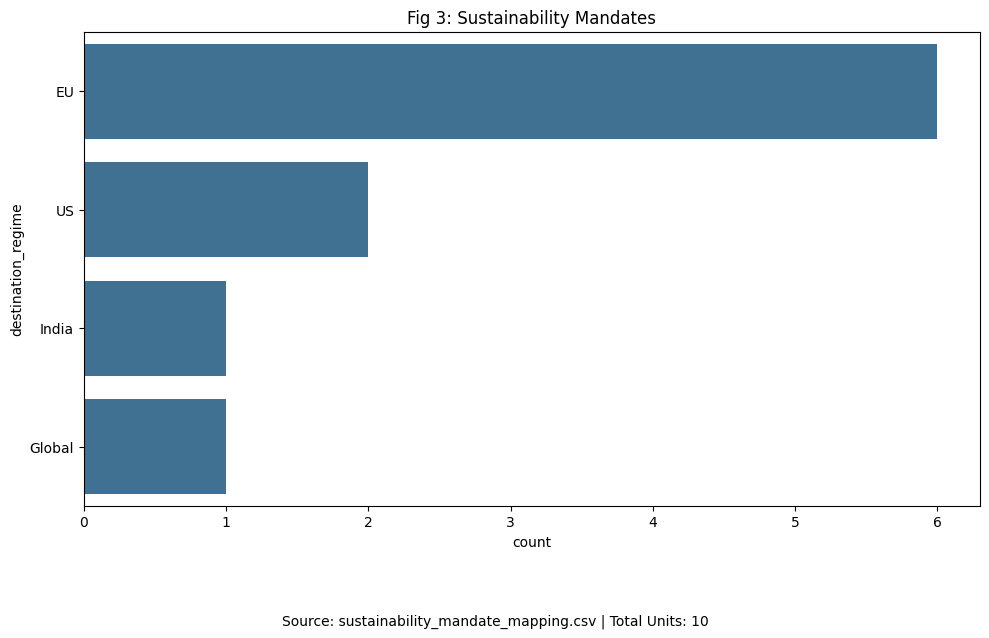
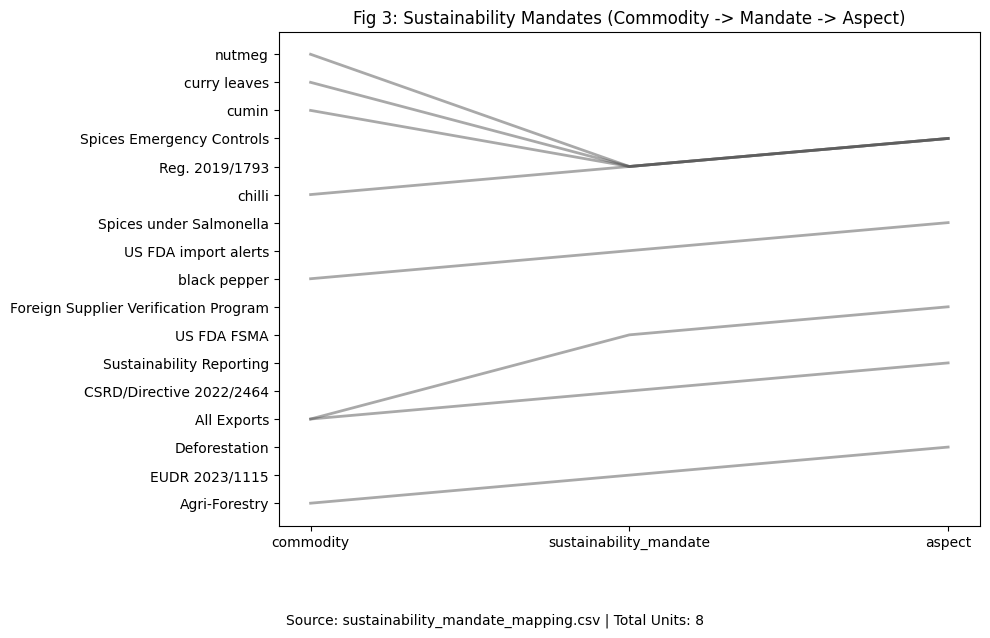
Fix figure rendering bugs and align sustainability mandate data

diff --git a/src/data-processing/generate_figures.py b/src/data-processing/generate_figures.py
@@ -47,11 +47,11 @@ def main():
     
     # Fig 2: Hurdle Co-occurrence
     try:
-        rq2 = pd.read_csv(results_dir / "rq2_hurdle_cooccurrence.csv")
+        rq2 = pd.read_csv(results_dir / "rq2_hurdle_cooccurrence.csv", comment="#")
         # Ensure it's not empty and has actual data
-        # Assuming rq2 has 'hurdle_1', 'hurdle_2', 'jaccard'
+        # Assuming rq2 has 'hurdle_a', 'hurdle_b', 'jaccard'
         if not rq2.empty and 'jaccard' in rq2.columns:
-            pivot = rq2.pivot(index='hurdle_1', columns='hurdle_2', values='jaccard')
+            pivot = rq2.pivot(index='hurdle_a', columns='hurdle_b', values='jaccard')
             fig, ax = plt.subplots(figsize=(10, 8))
             sns.heatmap(pivot, annot=True, cmap="Greys", cbar=True, fmt=".3f", ax=ax)
             ax.set_xlabel("Hurdle")
@@ -84,7 +84,7 @@ def main():
         # which acts as a parallel coordinates plot
         fig, ax = plt.subplots(figsize=(10, 6))
         
-        cols = ['Commodity', 'Mandate', 'Aspect']
+        cols = ['commodity', 'sustainability_mandate', 'aspect']
         # check if these columns exist, else fallback
         if all(c in mapping.columns for c in cols):
             mapping['count'] = 1 # or aggregate
@@ -93,7 +93,7 @@ def main():
             # Simple visualization
             # Just mapping the flows
             for idx, row in agg.iterrows():
-                ax.plot([0, 1, 2], [row['Commodity'], row['Mandate'], row['Aspect']], color=base_color, alpha=0.5, linewidth=row['unit_count']*2)
+                ax.plot([0, 1, 2], [row['commodity'], row['sustainability_mandate'], row['aspect']], color=base_color, alpha=0.5, linewidth=row['unit_count']*2)
                 
             ax.set_xticks([0, 1, 2])
             ax.set_xticklabels(cols)

diff --git a/src/data-processing/generate_sustainability_mapping.py b/src/data-processing/generate_sustainability_mapping.py
@@ -16,9 +16,7 @@ def main():
         {"destination_regime": "EU", "commodity": "Agri-Forestry", "sustainability_mandate": "EUDR 2023/1115", "aspect": "Deforestation"},
         {"destination_regime": "EU", "commodity": "All Exports", "sustainability_mandate": "CSRD/Directive 2022/2464", "aspect": "Sustainability Reporting"},
         {"destination_regime": "US", "commodity": "black pepper", "sustainability_mandate": "US FDA import alerts", "aspect": "Spices under Salmonella"},
-        {"destination_regime": "US", "commodity": "All Exports", "sustainability_mandate": "US FDA FSMA", "aspect": "Foreign Supplier Verification Program"},
-        {"destination_regime": "India", "commodity": "All Exports", "sustainability_mandate": "FSSAI", "aspect": "Domestic Compliance / FoSCoS"},
-        {"destination_regime": "Global", "commodity": "All Exports", "sustainability_mandate": "Private Certifications", "aspect": "B2B Compliance"}
+        {"destination_regime": "US", "commodity": "All Exports", "sustainability_mandate": "US FDA FSMA", "aspect": "Foreign Supplier Verification Program"}
     ]
     
     df = pd.DataFrame(data)
